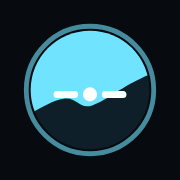
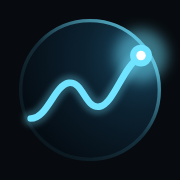
Replace the mark with the night-flight orb
A dark glass orb with the equity river running across it, one drawdown
then the climb, ending in the glowing "you are here" node that lights the
glass from the top right. It is rendered the way the hero chart is: deep
navy, neon line, soft bloom. A flat variant without filters serves the
favicon and small sizes; mono variants are a ring, line and dot.

Claude-Session: https://claude.ai/code/session_01CFnoMxFUUhKChn4mouwraj

diff --git a/scripts/make-logo.py b/scripts/make-logo.py
@@ -1,8 +1,8 @@
 """Generate the MyTradePilot logo set into public/brand.
 
-The mark is an attitude indicator (the pilot's artificial horizon) whose
-horizon is an equity curve: one drawdown, then the climb. The white bars and
-dot are the aircraft reference, fixed while the horizon moves. The wordmark
+The mark is a night-flight porthole: a dark glass orb with the equity river
+running across it, one drawdown then the climb, ending in the glowing
+"you are here" node that lights the glass from the top right. The wordmark
 is Inter Display SemiBold (editorial variant: Instrument Serif) with the dot
 of the "i" in Pilot replaced by the glowing "you are here" node from the chart.
 
@@ -40,37 +40,48 @@ def seg_path(segs):
         d += f" C{p1[0]} {p1[1]} {p2[0]} {p2[1]} {p3[0]} {p3[1]}"
     return d
 
-# The horizon: enters low on the left, a gentle swell, a drawdown, then the climb.
-HORIZON = [((-10, 46), (6, 45), (12, 37), (20, 36)),
-           ((20, 36), (26, 35), (27, 41), (33, 39)),
-           ((33, 39), (42, 36), (50, 26), (74, 20))]
+# The river: a run-up, one drawdown, then the climb to the node.
+RIVER = [((7, 44), (14, 44), (17, 30), (23, 29)),
+         ((23, 29), (29, 28), (30, 40), (36, 39)),
+         ((36, 39), (42, 38), (46, 22), (53, 18))]
+NODE = (53.5, 17.5)
 
-def mark(aircraft=True, ring=True, mono=None):
-    """Inner SVG of the mark in a 64x64 box. mono: a single colour for one-colour use."""
+def mark(flat=False, mono=None):
+    """Inner SVG of the mark in a 64x64 box.
+
+    A dark glass orb, the night-flight porthole, with the equity river running
+    across it and the glowing "you are here" node lighting the glass from the
+    top right. flat=True drops filters and gradients (favicons, tiny sizes).
+    mono: one colour for single-colour use.
+    """
+    d = seg_path(RIVER); nx, ny = NODE
     if mono:
-        # one colour: the aircraft reference is knocked out of the sky with a mask
         return f'''
+  <circle cx="32" cy="32" r="29" fill="none" stroke="{mono}" stroke-width="2.6"/>
+  <path d="{d}" fill="none" stroke="{mono}" stroke-width="3.4" stroke-linecap="round"/>
+  <circle cx="{nx}" cy="{ny}" r="5.6" fill="{mono}"/>'''
+    if flat:
+        return f'''
+  <circle cx="32" cy="32" r="30" fill="#0b1c28"/>
+  <path d="{d}" fill="none" stroke="{ACC}" stroke-width="4" stroke-linecap="round"/>
+  <circle cx="{nx}" cy="{ny}" r="6" fill="{ACC}"/><circle cx="{nx}" cy="{ny}" r="2.6" fill="#ffffff"/>'''
+    return f'''
   <defs>
-    <clipPath id="mtp-clip"><circle cx="32" cy="32" r="27"/></clipPath>
-    <mask id="mtp-ac"><rect width="64" height="64" fill="#fff"/>
-      <path d="M17 34 H25 M39 34 H47" stroke="#000" stroke-width="3.2" stroke-linecap="round"/><circle cx="32" cy="34" r="3.2" fill="#000"/></mask>
+    <radialGradient id="mtp-glass" cx="{nx}" cy="{ny}" r="52" gradientUnits="userSpaceOnUse">
+      <stop offset="0" stop-color="#17445c"/><stop offset="0.45" stop-color="#0c2231"/><stop offset="1" stop-color="#050d14"/>
+    </radialGradient>
+    <linearGradient id="mtp-rim" x1="54" y1="10" x2="14" y2="56" gradientUnits="userSpaceOnUse">
+      <stop offset="0" stop-color="{ACC}" stop-opacity="0.7"/><stop offset="0.5" stop-color="{ACC}" stop-opacity="0.12"/><stop offset="1" stop-color="{ACC}" stop-opacity="0.05"/>
+    </linearGradient>
+    <filter id="mtp-bloom" x="-60%" y="-60%" width="220%" height="220%"><feGaussianBlur stdDeviation="2.6"/></filter>
+    <filter id="mtp-haze" x="-30%" y="-30%" width="160%" height="160%"><feGaussianBlur stdDeviation="1.2"/></filter>
   </defs>
-  <circle cx="32" cy="32" r="28" fill="none" stroke="{mono}" stroke-width="2.4"/>
-  <g mask="url(#mtp-ac)"><path d="{seg_path(HORIZON)} L74 -10 L-10 -10 Z" fill="{mono}" clip-path="url(#mtp-clip)"/></g>
-  <g clip-path="url(#mtp-clip)"><path d="M39 34 H47" stroke="{mono}" stroke-width="3.2" stroke-linecap="round"/></g>'''
-    b = f'''
-  <defs><clipPath id="mtp-clip"><circle cx="32" cy="32" r="27"/></clipPath></defs>
-  <circle cx="32" cy="32" r="27" fill="{GROUND}"/>
-  <path d="{seg_path(HORIZON)} L74 -10 L-10 -10 Z" fill="{ACC}" clip-path="url(#mtp-clip)"/>'''
-    if ring:
-        b += f'\n  <circle cx="32" cy="32" r="29" fill="none" stroke="{ACC}" stroke-width="2.2" opacity="0.6"/>'
-    if aircraft:
-        b += f'''
-  <path d="M17 34 H25 M39 34 H47" stroke="#ffffff" stroke-width="3.2" stroke-linecap="round"/>
-  <circle cx="32" cy="34" r="3.2" fill="#ffffff"/>'''
-    else:
-        b += '\n  <circle cx="32" cy="34" r="4" fill="#ffffff"/>'
-    return b
+  <circle cx="32" cy="32" r="30" fill="url(#mtp-glass)"/>
+  <circle cx="32" cy="32" r="29.2" fill="none" stroke="url(#mtp-rim)" stroke-width="1.4"/>
+  <path d="{d}" fill="none" stroke="{ACC}" stroke-width="6.5" stroke-linecap="round" opacity="0.28" filter="url(#mtp-haze)"/>
+  <path d="{d}" fill="none" stroke="{ACC}" stroke-width="2.8" stroke-linecap="round"/>
+  <circle cx="{nx}" cy="{ny}" r="11" fill="{ACC}" opacity="0.5" filter="url(#mtp-bloom)"/>
+  <circle cx="{nx}" cy="{ny}" r="4.6" fill="{ACC}"/><circle cx="{nx}" cy="{ny}" r="2" fill="#ffffff"/>'''
 
 def svg(body, vb="0 0 64 64", w=64, h=64, label="MyTradePilot"):
     return (f'<svg xmlns="http://www.w3.org/2000/svg" viewBox="{vb}" width="{w}" height="{h}" '
@@ -119,7 +130,7 @@ def wordmark(font_path, cap, tracking_em, node_fill=ACC, core="#ffffff", glow=Tr
             gs[name].draw(TransformPen(pen, T))
         x += pos.x_advance * k + tracking
     nx, ny, w = node; r = w * 0.78
-    extra = f'<circle cx="{nx:.2f}" cy="{ny:.2f}" r="{r*2.1:.2f}" fill="{node_fill}" opacity="0.18"/>' if glow else ""
+    extra = f'<circle cx="{nx:.2f}" cy="{ny:.2f}" r="{r*2.0:.2f}" fill="{node_fill}" opacity="0.32" filter="url(#mtp-wbloom)"/>' if glow else ""
     extra += f'<circle cx="{nx:.2f}" cy="{ny:.2f}" r="{r:.2f}" fill="{node_fill}"/><circle cx="{nx:.2f}" cy="{ny:.2f}" r="{r*0.42:.2f}" fill="{core}"/>'
     return pen.getCommands(), x - tracking, extra
 
@@ -132,6 +143,7 @@ def lockup(fill, font="sans", mark_body=None, mark_h=32, gap=10, node_fill=ACC, 
     base = mark_h / 2 + cap * mark_h / 2
     W, H = tx + adv + 2, mark_h
     body = f'\n  <g transform="scale({mark_h/64:.5f})">{mark_body}\n  </g>' if mark_body else ""
+    body += f'\n  <defs><filter id="mtp-wbloom" x="-100%" y="-100%" width="300%" height="300%"><feGaussianBlur stdDeviation="{cap*mark_h*0.03:.2f}"/></filter></defs>'
     body += f'\n  <g transform="translate({tx:.2f} {base:.2f})"><path fill="{fill}" d="{d}"/>{extra}</g>'
     return svg(body, vb=f"0 0 {W:.2f} {H:.2f}", w=f"{W:.0f}", h=f"{H:.0f}")
 
@@ -139,9 +151,10 @@ def lockup(fill, font="sans", mark_body=None, mark_h=32, gap=10, node_fill=ACC, 
 ensure_serif()
 files = {
     "logo-mark.svg": svg(mark()),
+    "logo-mark-flat.svg": svg(mark(flat=True)),
     "logo-mark-mono-light.svg": svg(mark(mono=CREAM)),
     "logo-mark-mono-dark.svg": svg(mark(mono=INK)),
-    "favicon.svg": svg(mark(aircraft=False)),
+    "favicon.svg": svg(mark(flat=True)),
     "logo.svg": lockup(CREAM, "sans", mark()),
     "logo-light.svg": lockup(INK, "sans", mark()),
     "logo-serif.svg": lockup(CREAM, "serif", mark()),
@@ -152,7 +165,7 @@ files = {
     "wordmark-serif-light.svg": lockup(INK, "serif"),
     "logo-mono-light.svg": lockup(CREAM, "sans", mark(mono=CREAM), node_fill=CREAM, core=BG, glow=False),
     "logo-mono-dark.svg": lockup(INK, "sans", mark(mono=INK), node_fill=INK, core="#ffffff", glow=False),
-    "app-icon.svg": svg(f'\n  <rect width="64" height="64" fill="{BG}"/>\n  <g transform="translate(7 7) scale(0.78125)">{mark()}\n  </g>'),
+    "app-icon.svg": svg(f'\n  <rect width="64" height="64" fill="{BG}"/>\n  <g transform="translate(5 5) scale(0.84375)">{mark()}\n  </g>'),
 }
 os.makedirs(OUT, exist_ok=True)
 for name, content in files.items():

diff --git a/public/brand/README.md b/public/brand/README.md
@@ -1,9 +1,9 @@
 # MyTradePilot brand assets
 
-**The mark is an attitude indicator**, the pilot's artificial horizon, with one change:
-the horizon is an equity curve. One drawdown, then the climb. The white bars and dot are
-the aircraft reference, fixed while the horizon moves beneath it. Cyan sky, dark ground,
-a thin bezel ring.
+**The mark is a night-flight porthole**: a dark glass orb with the equity river running
+across it, one drawdown then the climb, ending in the glowing "you are here" node that
+lights the glass from the top right. It is rendered the way the hero chart is rendered:
+deep navy, neon line, soft bloom.
 
 **The wordmark** is Inter Display SemiBold. The dot of the "i" in Pilot is the glowing
 "you are here" node from the equity chart. An editorial variant uses Instrument Serif, the
@@ -19,11 +19,11 @@ All SVGs are self-contained (text is outlined, no fonts needed).
 | `wordmark*.svg` | Wordmark alone, same variants |
 | `logo-mark.svg` | Mark alone, any background |
 | `logo-mark-mono-light.svg` / `-dark.svg` | One-colour mark |
-| `favicon.svg` | Mark simplified for 16 to 32 px (aircraft bars dropped, dot kept) |
+| `logo-mark-flat.svg` / `favicon.svg` | Mark without filters or gradients, heavier line, for 16 to 32 px and places that can't render SVG filters |
 | `app-icon.svg`, `icon-192.png`, `icon-512.png`, `apple-touch-icon.png` | Full-bleed app icons on the site background |
 | `logo-1600.png`, `logo-light-1600.png`, `logo-mark-512.png` | Raster exports |
 
-Colours: accent `#6fe3ff`, ground `#0e1f2a`, background `#070b0f`, cream `#f1ece3`, ink `#0d1820`.
+Colours: accent `#6fe3ff`, glass `#17445c → #050d14`, background `#070b0f`, cream `#f1ece3`, ink `#0d1820`.
 Keep clear space of at least half the mark's height around the lockup. On cyan or mid-blue
 surfaces use a mono variant.
 
